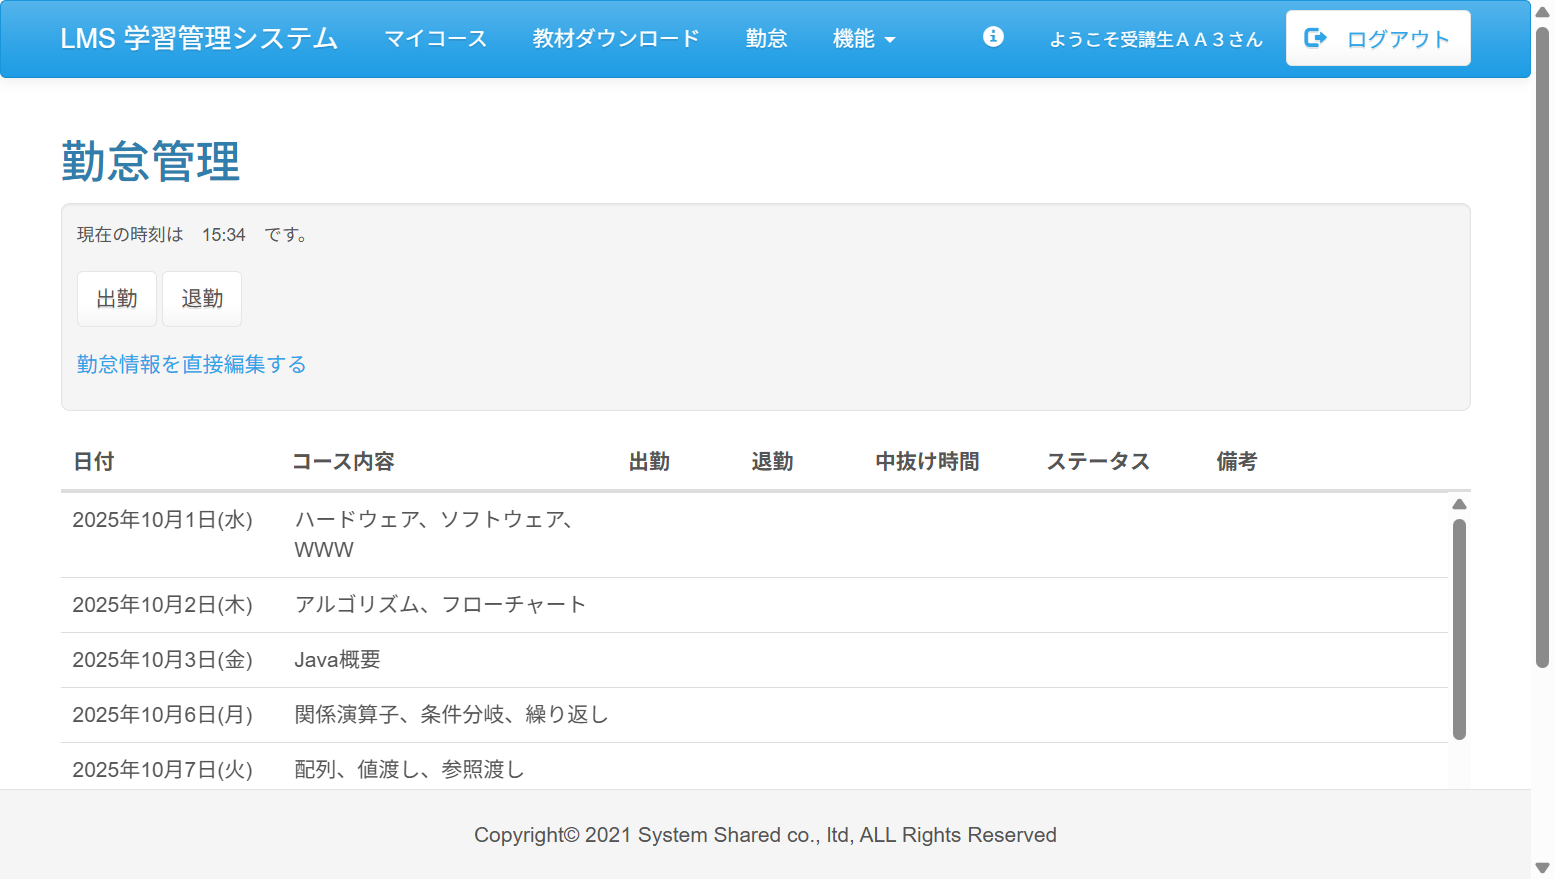
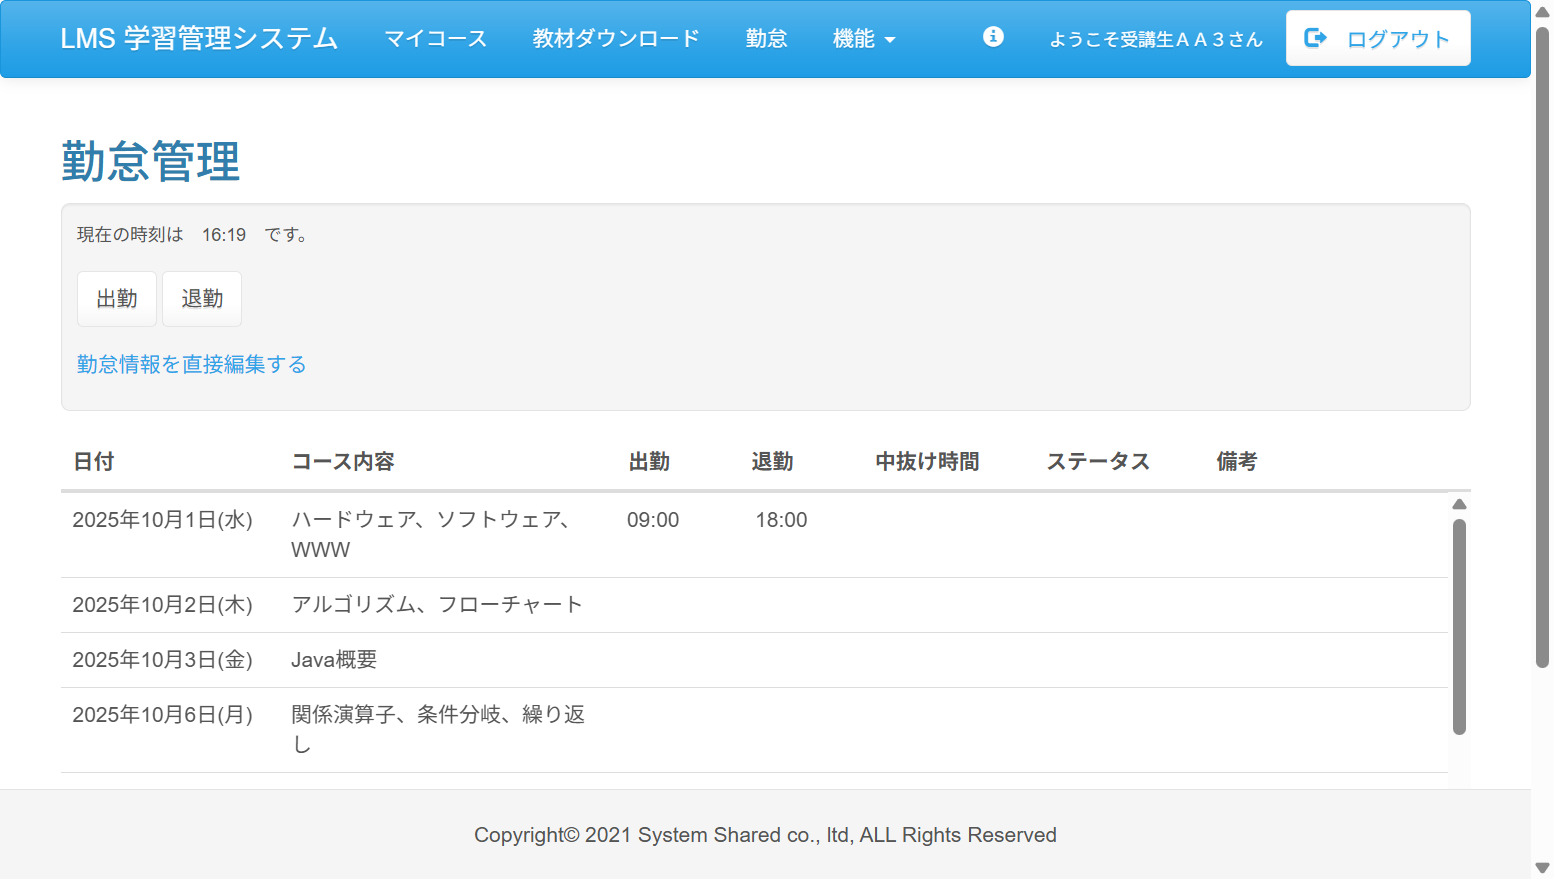
fix: Case11.java テストケースの修正
test05()メソッドの修正・エビデンスの追加

diff --git a/test_code_creation_name/src/test/java/jp/co/sss/lms/ct/f04_attendance/Case11.java b/test_code_creation_name/src/test/java/jp/co/sss/lms/ct/f04_attendance/Case11.java
@@ -3,8 +3,6 @@ package jp.co.sss.lms.ct.f04_attendance;
 import static jp.co.sss.lms.ct.util.WebDriverUtils.*;
 import static org.junit.jupiter.api.Assertions.*;
 
-import java.util.List;
-
 import org.junit.jupiter.api.AfterAll;
 import org.junit.jupiter.api.BeforeAll;
 import org.junit.jupiter.api.DisplayName;
@@ -87,7 +85,6 @@ public class Case11 {
 	@DisplayName("テスト04 「勤怠情報を直接編集する」リンクから勤怠情報直接変更画面に遷移")
 	void test04() {
 		WebElement container = webDriver.findElement(By.id("contents"));
-		//String url = update.getAttribute("href");
 		WebElement update = container.findElement(By.tagName("a"));
 		update.click();
 
@@ -100,19 +97,40 @@ public class Case11 {
 	@Order(5)
 	@DisplayName("テスト05 すべての研修日程の勤怠情報を正しく更新し勤怠管理画面に遷移")
 	void test05() {
-		// 全ての「定時」ボタンを取得
-		List<WebElement> buttons = webDriver.findElements(By.xpath("//button['定時']"));
+		//		// 全ての「定時」ボタンを取得
+		//		List<WebElement> buttons = webDriver.findElements(By.xpath("//button['定時']"));
+		//
+		//		for (WebElement button : buttons) {
+		//			button.click();
+		//			break;
+		//		}
+		// 1項目のみ定時ボタン押下
+		WebElement button = webDriver.findElement(By.tagName("button"));
+		WebElement zero = button.findElement(By.xpath("//button[@value='0']"));
+		zero.click();
 
-		for (WebElement button : buttons) {
-			button.click();
-		}
-		WebElement updateComp = webDriver.findElement(By.name("complete"));
+		pageLoadTimeout(5);
+		getEvidence(new Object() {
+		}, "01");
+
+		// 画面スクロール後、待ち処理5秒
+		scrollBy("window.innerHeight");
+		pageLoadTimeout(5);
+
+		WebElement form = webDriver.findElement(By.tagName("form"));
+		WebElement updateComp = form.findElement(By.xpath("//input[@value='更新']"));
 		updateComp.click();
 
-		assertEquals("http://localhost:8080/lms/attendance/detail", webDriver.getCurrentUrl());
+		Alert alert = webDriver.switchTo().alert();
+		alert.accept();
+
+		assertEquals("http://localhost:8080/lms/attendance/update", webDriver.getCurrentUrl());
 
 		WebElement compText = webDriver.findElement(By.className("alert-dismissible"));
 		assertEquals("×\n勤怠情報の登録が完了しました。", compText.getText());
+
+		getEvidence(new Object() {
+		}, "02");
 	}
 
 }
